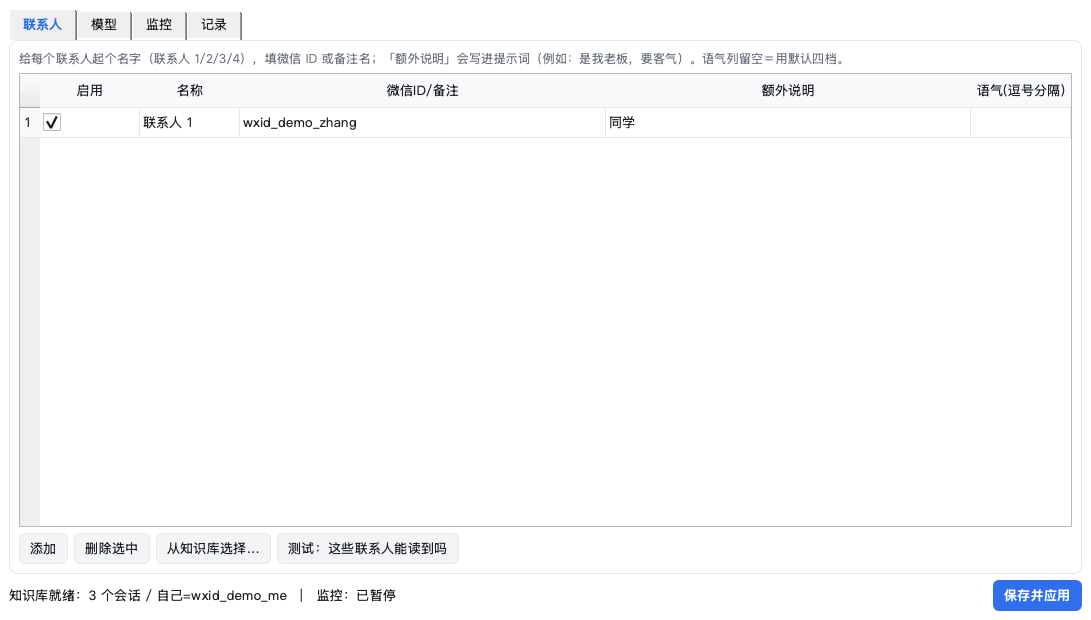
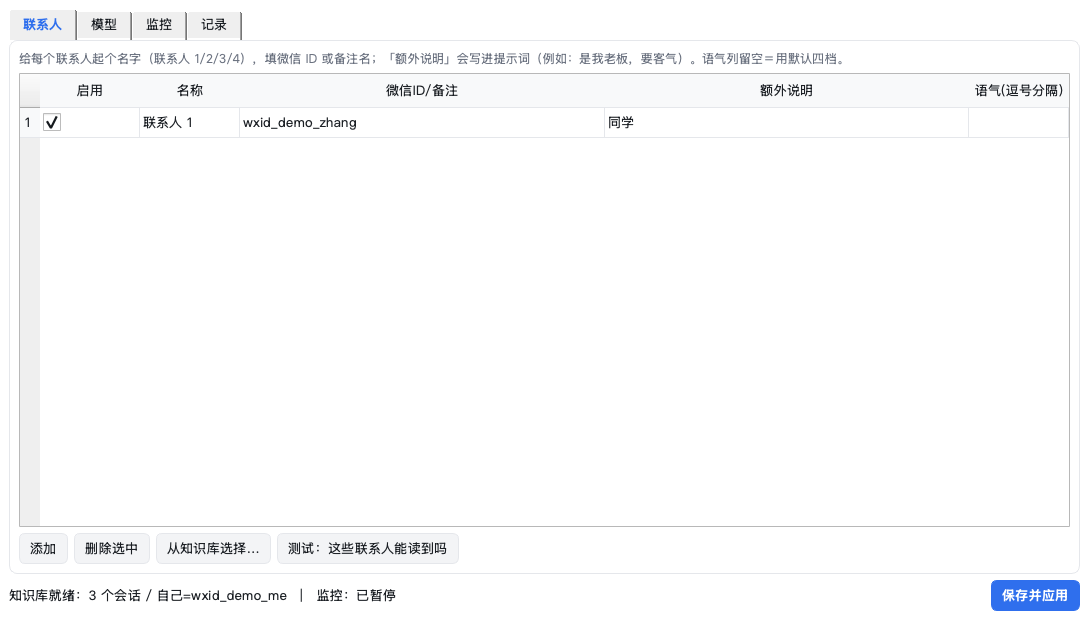
preflight 私有规则改为外置，补发布前门测试
- 公司域名/内网标识这类模式不再硬编码在 tools/preflight.py（公开文件写进去等于泄露）；
  改为从 .preflight-extra.json（gitignore，附 example）或环境变量 PREFLIGHT_EXTRA_RULES 加载
- 规则文件自身与脚本一起跳过扫描（否则规则文本自我命中）
- 新增测试：本地私有规则真的生效、规则文件不自我命中、默认规则不管团队私有词
- 测试 69 项，ruff 干净，preflight PASS

diff --git a/tools/preflight.py b/tools/preflight.py
@@ -16,7 +16,8 @@ from dataclasses import dataclass
 from pathlib import Path
 
 SKIP_DIRS = {".git", ".venv", "__pycache__", ".pytest_cache", ".ruff_cache", "build", "dist", "node_modules"}
-SKIP_FILES = {"preflight.py"}
+# 这两个文件本身就装着规则/模式文本，必须跳过，否则自我命中
+SKIP_FILES = {"preflight.py", ".preflight-extra.json", ".preflight-extra.example.json"}
 TEXT_EXTS = {".py", ".md", ".txt", ".json", ".toml", ".cfg", ".ini", ".yml", ".yaml", ".ps1", ".bat",
              ".spec", ".html", ".css", ".js", ".sh", ".log"}
 
@@ -29,9 +30,12 @@ RULES: list[tuple[str, str, str]] = [
     ("sqlcipher-keyliteral", r"x'[0-9a-fA-F]{96,}'", "疑似真实 keys.json 条目"),
     ("bearer-secret", r"(?:api[_-]?key|apikey|token)\"\s*:\s*\"[A-Za-z0-9_\-]{24,}", "疑似真实 API Key/Token"),
     ("private-key", r"-----BEGIN [A-Z ]*PRIVATE KEY-----", "私钥"),
-    ("internal-marker", r"ark_controlplane|node_acls|bytedance\.com|larkoffice\.com",
-     "内网/公司内部标识（发到公开仓库前去掉）"),
 ]
+
+# 公司/内网标识这类规则因团队而异，不写死在这里（否则本文件自己就泄露了这些词）：
+# 放在仓库外的本地规则文件，或环境变量里，见 load_extra_rules()。
+EXTRA_RULES_FILE = ".preflight-extra.json"
+EXTRA_ENV_VAR = "PREFLIGHT_EXTRA_RULES"
 
 FORBIDDEN_FILES = {
     "keys.json": "密钥文件（应放在仓库外的用户目录）",
@@ -62,10 +66,35 @@ def _iter_files(root: Path):
         yield p
 
 
-def scan(root: str | Path) -> list[Finding]:
+def load_extra_rules(root: str | Path) -> list[tuple[str, str, str]]:
+    """本地私有规则：{root}/.preflight-extra.json（已 gitignore）或环境变量。
+
+    文件格式：{"rules": [{"name": "...", "pattern": "正则", "note": "说明"}]}
+    环境变量格式：PREFLIGHT_EXTRA_RULES='名字=正则;名字2=正则2'
+    """
+    import json
+    import os
+
+    rules: list[tuple[str, str, str]] = []
+    path = Path(root) / EXTRA_RULES_FILE
+    if path.exists():
+        try:
+            data = json.loads(path.read_text(encoding="utf-8"))
+            for item in data.get("rules", []):
+                rules.append((item["name"], item["pattern"], item.get("note", "本地私有规则")))
+        except Exception as e:                                   # noqa: BLE001
+            print(f"[warn] {EXTRA_RULES_FILE} 解析失败，已忽略：{e}")
+    for chunk in (os.environ.get(EXTRA_ENV_VAR) or "").split(";"):
+        if "=" in chunk:
+            name, pattern = chunk.split("=", 1)
+            rules.append((name.strip() or "extra", pattern.strip(), "环境变量私有规则"))
+    return rules
+
+
+def scan(root: str | Path, extra_rules: list[tuple[str, str, str]] | None = None) -> list[Finding]:
     root = Path(root)
     findings: list[Finding] = []
-    compiled = [(name, re.compile(pattern), note) for name, pattern, note in RULES]
+    compiled = [(name, re.compile(pattern), note) for name, pattern, note in RULES + list(extra_rules or [])]
 
     for p in _iter_files(root):
         rel = str(p.relative_to(root)) if p != root else p.name
@@ -97,7 +126,8 @@ def main(argv: list[str] | None = None) -> int:
     args = ap.parse_args(argv)
 
     root = Path(args.path).expanduser().resolve()
-    findings = scan(root)
+    extra = load_extra_rules(root)
+    findings = scan(root, extra)
     if findings:
         print(f"FAIL：{len(findings)} 处需要处理（{root}）\n")
         for f in findings:
@@ -105,7 +135,8 @@ def main(argv: list[str] | None = None) -> int:
         print("\n处理：真实数据/密钥只放在用户目录（如 %APPDATA%\\wxreply 或仓库外的解密目录）；"
               "文档里用 <你>、wxid_xxx、wxid_demo_* 这类占位符。")
         return 1
-    print(f"PASS：{root} 没有本机路径 / 真实 wxid / 密钥 / 数据库文件 / 虚拟环境")
+    tail = f"（含 {len(extra)} 条本地私有规则）" if extra else ""
+    print(f"PASS：{root} 没有本机路径 / 真实 wxid / 密钥 / 数据库文件 / 虚拟环境{tail}")
     return 0
 
 

diff --git a/tests/test_preflight.py b/tests/test_preflight.py
@@ -32,7 +32,6 @@ def _leak_cases() -> dict[str, str]:
         "leak_literal.txt": f"{JOIN(['x', chr(39)])}{'ab12' * 24}{chr(39)}\n",
         "leak_token.py": f'apikey": "{JOIN(["sk-live-", "abcdefghijklmnopqrstuvwxyz012345"])}"\n',
         "leak_pem.md": f"-----BEGIN {JOIN(['RSA ', 'PRIVATE KEY'])}-----\n",
-        "leak_internal.md": f"control plane: {JOIN(['ark_', 'controlplane'])} / {JOIN(['node', '_acls'])}\n",
         "leak.db": "SQLite format 3\x00",
         "keys.json": "{}",
         "history.jsonl": '{"kind":"generate"}\n',
@@ -62,6 +61,32 @@ def test_placeholders_are_allowed(tmp_path: Path):
         "python -m wxreply --config ~/.wxreply/config.json\n",
         encoding="utf-8")
     assert scan(tmp_path) == []
+
+
+def test_extra_local_rules_are_loaded(tmp_path: Path):
+    """团队私有标识不写死在脚本里：本地规则文件/环境变量要真的生效。"""
+    import json
+    import os
+
+    from preflight import EXTRA_ENV_VAR, load_extra_rules, main, scan
+
+    keyword = JOIN(["example", "-corp"])
+    (tmp_path / ".preflight-extra.json").write_text(json.dumps(
+        {"rules": [{"name": "company-domain", "pattern": keyword, "note": "公司域名"}]}), encoding="utf-8")
+    (tmp_path / "doc.md").write_text(f"see {keyword} for details\n", encoding="utf-8")
+
+    assert scan(tmp_path) == []                                   # 默认规则不管它
+    hits = scan(tmp_path, load_extra_rules(tmp_path))
+    assert [f.rule for f in hits] == ["company-domain"]
+    assert hits[0].path == "doc.md", "只应该命中数据文件，规则文件自身必须跳过"
+    assert main(["--path", str(tmp_path)]) == 1                   # 带本地规则就红
+
+    os.environ[EXTRA_ENV_VAR] = f"env-rule={keyword}"
+    try:
+        assert [f.rule for f in scan(tmp_path, load_extra_rules(tmp_path))] == \
+            ["company-domain", "env-rule"]
+    finally:
+        os.environ.pop(EXTRA_ENV_VAR, None)
 
 
 def test_binary_and_cache_dirs_are_skipped(tmp_path: Path):

diff --git a/docs/AGENT_TASKS.md b/docs/AGENT_TASKS.md
@@ -172,6 +172,10 @@ git status --short
 
 > 扫描用 `tools/preflight.py` 而不是临时 grep：`git grep` 默认**不扫未跟踪文件**，新写的文件会漏检；
 > 规则写在文档里还会自我命中。这个脚本扫工作区（含未跟踪），跳过 `.git`/`.venv`/缓存/二进制。
+>
+> 公司域名、内网标识这类**团队私有**规则不要写进脚本（脚本是公开文件，写进去等于泄露）。
+> 复制 `.preflight-extra.example.json` 成 `.preflight-extra.json`（已 gitignore）填自己的模式，
+> 或用环境变量 `PREFLIGHT_EXTRA_RULES='名字=正则;名字2=正则2'`。
 
 **完成判据**：四条命令全部退出码 0（`preflight.py` 打印 `PASS`）；`git status` 里没有 `keys.json`、解密目录、`history.jsonl`、`.venv/`。
 新增规则时，往 `tools/preflight.py` 的 `RULES` 里加一条，并在 `tests/test_preflight.py::_leak_cases` 补一个样例——测试会验证「这条规则真的抓得到」。
